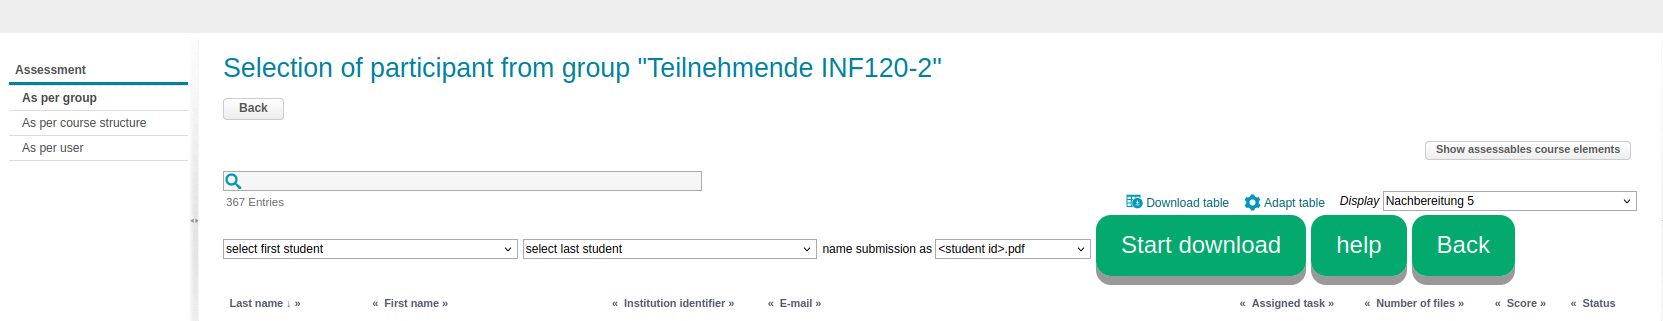
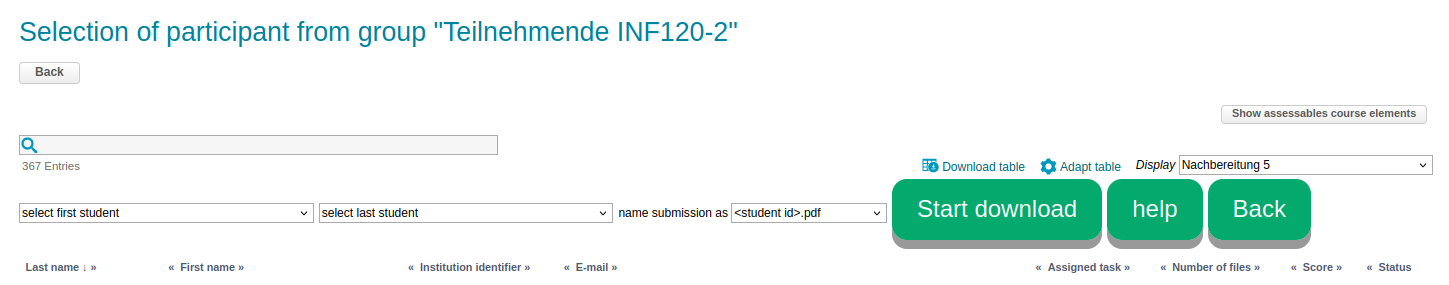
completed README

diff --git a/text_handling.js b/text_handling.js
@@ -61,7 +61,7 @@ function getLanguageDependentText(german_text, english_text) {
 
 
 function getInformationButtonValue() {
-	return getLanguageDependentText("Hilfe", "help");
+	return getLanguageDependentText("Hilfe", "Help");
 }
 
 function getGeneralInformationText() {

diff --git a/README.md b/README.md
@@ -1,78 +1,105 @@
-# OPAL BULK MARKING (beta)
+# OPAL-BULK-MARKING 0.6 (beta)
 
-'opal bullk marking' is an add-on developed by Marco Praderio with the goal of simplifying the download and upload parts of the marking processes of submissions made via opal.
+Opal-bullk-marking is an add-on developed by [Marco Praderio Bova](https://marcopraderiobova.com/) with the goal of simplifying the downloading and uploading parts of the processes of marking submissions via Opal.
 
 ## Disclaimer
-The add-on is stil on the early stages of development and due to lack of access to parts of the opal source code the developer can ensure its functionality only in the context of the TU Dresden opal page. It might however work also in other contexts and the developer would welcome feedback from anyone who attempts to use it like that.
+Opal-bulk-marking is stil on its early stages of development and was only tested in the context of the [TU Dresden opal page](https://bildungsportal.sachsen.de/opal/). Even in this case, due to lack of access to some functions from Opal, it was not possible to run extensive tests on the upload process and the user is advised to double check this process. At least during their first uses of opal-bulk-marking.
 
-The add-on is designed to work on a firefox browser and the developer cannot guarantee it's functioning on any other browser.
+Opal-bulk-marking is designed to work on a Firefox browser and will not work on any other browser.
 
 ## Instructions
-For information on how to install 'opal bulk marking' see Section *[Installation](#sec_installation)*. See also Section *[Configuration](#sec_configuration)* for instructions on how to set up your firefox browser in order for the bulk download to work properly.
-Once installed opal-bulk-marking will make no modifications on your browser until you enter the opal page where submissions for a given assessment are listed. In what follows we will refer to this page simply as the *assessment page* and we will refer to the table appearing in the assessment page simply as *assessment table*.
+For information on how to install Opal-bulk-marking see Section [Installation](#sec_installation).
+
+For instructions on how to set up your Firefox browser in order for the [bulk download](#subsec_download) to work properly see Section [Configuration](#sec_configuration) .
+
+Once installed opal-bulk-marking will make no modifications on your browser until you enter the opal page where submissions for a given assessment are listed.
+This is the page that can be accessed by selecting a given module, pressing on the 'Assessment tool' icon on the top (appearing as a cogwheel), selecting the 'As per group' option on the table on the left side of the page, selecting a 'Group name' from the table that appears and finally selecting the desired assessment from the 'display' dropdown appearing on the right side just above the main table.
+In what follows we will refer to this page simply as the *assessment page* and to the table appearing in this page simply as *assessment table*.
 
 <a id="subsec_main"></a>
-### Assessment page
-Once you enter the assessment page opal-bulk-marking will modify it so that three new buttons with the texts 'Download submissions', 'Upload marking' and 'help' appear right above the assessment table.
+### Main page
+Once you enter the assessment page for the first time opal-bulk-marking will modify it so that the following appears right above the assessment table.
 
 ![main](https://github.com/PraderioM/opal-bulk-marking/blob/main/images/main.png?raw=true)
 
-The 'help' button will show a pop-up with instructions on how to use opal-bulk-marking. See below for information on the functions provided by the Subsections [Bulk download](#subsec_download) and [Bulk upload](#subsec_upload)
+The big green buttons shown in the image above have the following functions:
+
+* **Download submissions**: Makes all students visible in the assessment table and displays the configuration of buttons described in Section [Bulk download](#subsec_download).
+* **Upload marking**: Makes all students visible in the assessment table and displays the configuration of buttons described in Section [Bulk upload](#subsec_upload).
+* **Help**: Shows a pop-up with minimal instructions on how to use opal-bulk-marking as well as a link to this page.
 
 **IMPORTANT**: In order for the buttons to appear it is necessary for the columns 'Last name', 'First name', 'Institution identifier' and 'Number of files' to be visible in the assessment table.
 
-**IMPORTANT**: If the opal page is set in german then opal-bulk-marking will detect this and adapt the language to german. However there is currently no support for any other language.
+**IMPORTANT**: If the opal page is set in german then opal-bulk-marking will detect this and adapt the language to german. However there is currently no support for any language other than english and german.
+
+**IMPORTANT**: There might be some gramatical errors in the german text displayed by opal-bulk-marking. If you can find any such error please get in contact with a [mainteiner](#sec_mainteiner) so that the error can be fixed in future versions.
 
 <a id="subsec_download"></a>
 ### Bulk download
-If you press on the 'Download submissions' button opal-bulk-marking will proceed to modifying the assessment table so that all students are visible and change the showed buttons will change and appear in the image
+If you press on the 'Download submissions' button appearing in the [main page](#subsec_main) opal-bulk-marking will proceed to modifying the assessment table so that all students are visible and change the showed buttons to the ones appearing in the image below
 
 ![dowload](https://github.com/PraderioM/opal-bulk-marking/blob/main/images/download.png?raw=true)
 
-Below is a description of each of the opal-bulk-marking buttons and dropdowns appearing in the above image.
-* **Back**: Goes back to the configration of buttons described in Section [Assessment page](#subsec_main).
-* **help**: Shows a pop up with instructions on how to use the bulk download function of opal-bulk-marking.
-* **Start download**: Dowloads all available submissions from all students with EXACTLY one submission in the selected range and names them after the specified name format.
-* **name submission as**: Allows you to specify how you want the download submission to be named. There are two possible naming formats:
+These buttons and dropdowns have the following functions:
+
+* **first student**: Allows you to select the first student of the range of students whose submissions you wish to download. If left blank the first available student will be selected automatically. Only students with exactly one submission are considered.
+* **last student**: Allows you to select the last student of the range of students whose submissions you wish to download. If left blank the last available student will be selected automatically. Only students with exactly one submission are considered.
+* **name submission as**: Allows you to specify how you want the download submission to be named. There are two possible naming conventions:
     * *\<student_id>.pdf*: The downloaded submissions will be named after the student id.
-    * *\<surname_name>.pdf*: The downloaded submissions will be named after the name and surname of the student.
-* **first student**: Allows you to select the first student of the range of students whose submissions you wish to download. If left blank the first available student will be selected automatically. Notice how only students with exactly one submission appear in the dropdown.
-* **last student**: Allows you to select the last student of the range of students whose submissions you wish to download. If left blank the last available student will be selected automatically. Notice how only students with exactly one submission appear in the dropdown.
+    * *\<surname>\_\<name>.pdf*: The downloaded submissions will be named after the surname and name of the student.
+* **Start download**: Dowloads the submissions from all students in the specified range whom have submitted EXACTLY one file. Submissions are stored following the specified naming convention.
+* **Help**: Shows a pop up with minimal instructions on how to use the bulk download function of opal-bulk-marking.
+* **Back**: Goes back to the [main page](#subsec_main).
 
 
-**IMPORTANT**: Before starting the download of submissions make sure your firefox browser is configured as described in Section [Configuration](#sec_configuration).
-
-**IMPORTANT**: It is convenient to use this method for downloading submissions in order to be able to later use the bulk upload feature of opal-bulk-marking.
+**IMPORTANT**: Before starting the download make sure your Firefox browser is configured as described in Section [Configuration](#sec_configuration).
 
 <a id="subsec_upload"></a>
 ### Bulk upload
-**More information to appear shortly.**
+If you press on the 'Upload marking' button appearing in the [main page](#subsec_main) opal-bulk-marking will proceed to modifying the assessment table so that all students are visible and change the showed buttons to the ones appearing in the image below.
+
 ![upload](https://github.com/PraderioM/opal-bulk-marking/blob/main/images/upload.png?raw=true)
 
+These buttons and selectables have the following functions:
+
+* **selectable**: Allows you to select all marked submissions that you wish to upload to Opal. These submissions should be named either as '\<student_id>\_\<grade>.pdf' or as '\<surname>\_\<name>\_\<grade>.pdf'. Notice how file names following these conventions can be obtained by adding the suffix '\_\<grade>' at the end of the files downloaded using the [bulk download function](#subsec_download). Here '\<grade>' represents the grade assigned to the submission and can be written using either of the following 2 conventions:
+    * *\<integer>*: A positive integer representing the grade. For example the grade '7.0' would be written simply as '7' using this convention.
+    * *\<integer>_\<decimals>*: A positive integer representing the integer part of a number followed by an underscore followed by a positive integer representing the decimal part of a number. For example the grade '7.5' can be written as '7_4' using this convention.
+* **Start upload**: Starts the uploading of all selected files. More precisely opal-bulk-marking will use the name of each of the selected files in order to obtain a grade and a student. It will then look for that student in the list of all available students and upload the marked submission (renamed to 'marked_submission.pdf') to its page. While doing so it will also store in the student's page the grade associated to this submission. Before starting the upload process opal-bulk-marking will show you a pop-up listing any error it might encounter (i.e. unrecognized naming conventions or non found students) and showing you the list of all students and grades that it successfully identified. The upload process will start only after you confirm the showed grades are the ones you want to upload.
+* **Help**: Shows a pop up with minimal instructions on how to use the bulk upload function of opal-bulk-marking.
+* **Back**: Goes back to the [main page](#subsec_main).
+
+**IMPORTANT**: During the upload process opal-bulk-marking will change the page several times as it iterates over all students whose marked submission are being uploaded. You should NOT interact with the page during this process as it might lead to failure uploading some marked submission. Opal-bulk-marking will however NEVER incorrectly assign a grade or a file.
+
+**IMPORTANT**: If the uploading process is stopped halfway through (for example by closing the tab) opal-bulk-marking will notify you of a non completed upload next time you use it and allow you to resume it from where it was stopped.
+
+**IMPORTANT**: Beware that opal-bulk-marking is still in its early stages of development and it was not possible to run extensive tests of the upload process. It is therefore possible that some of the selected files will not be uploaded and the user is asked to double check that all grades have been uploaded once the uploading process is completed.
+
 ## Requirements
-* a Firefox browser.
-* access to an [opal](https://bildungsportal.sachsen.de/opal/home?7) page.
+* Firefox browser.
+* Access to [TU Dresden opal page](https://bildungsportal.sachsen.de/opal/).
 
 
 <a id="sec_installation"></a>
 ## Installation
-In order to install the latest version of 'opal-bulk-marking' you need to:
+In order to install the latest version of opal-bulk-marking you need to:
 * Download the [opal-bulk-marking.xpi](https://github.com/PraderioM/opal-bulk-marking/raw/refs/heads/main/opal-bulk-marking.xpi) file that can be found in this same page.
 * Right click on the downloaded file and press on the option 'open with Firefox'.
-* Your Firefox browser will open with a pop-up asking if you wish to add the 'opal-bulk-marking' extension to Firefox.
-* Press on 'add'.
-* A pop-up will show up confirming correct installing of the add-on.
+* Your Firefox browser will open with a notification asking if you wish to add the opal-bulk-marking extension to Firefox.
+* Press on 'Add'.
+* A notification will appear confirming correct installation of the add-on.
 
 <a id="sec_configuration"></a>
 ## Configuration
-The default settings of your Firefox browser might lead to a new page opening up on firefox for every downloaded submission.
-This might be quite annoying and might interfere with the corect functioning of 'opal-bulk-marking' add on.
-In order order to fix this go to the *[preferences](about:preferences)* page of your Firefox browser. Under the *General* tab scroll down untill you arrive to the *Files and Applications* section and deselect the *Always ask you where to save files* checkbox.
-Make also sure that the *action* associated to PDF files is set to 'Save File'.
+The default settings of your Firefox browser might lead to a new page opening up on Firefox for every downloaded submission.
+This might be quite annoying and might interfere with the correct functioning of opal-bulk-marking add on.
+In order to fix this go to the '[preferences](about:preferences)' page of your Firefox browser. Under the 'General' tab scroll down untill you arrive to the 'Files and Applications' section and deselect the 'Always ask you where to save files' checkbox.
+Make also sure that the 'action' associated to PDF files is set to 'Save File'.
 
 For guidance the image below shows an example of a correct configuration.
 
 ![main](https://github.com/PraderioM/opal-bulk-marking/blob/main/images/settings.png?raw=true)
 
+<a id="sec_mainteiner"></a>
 ## Maintainers
 * [Marco Praderio Bova](https://marcopraderiobova.com/)
